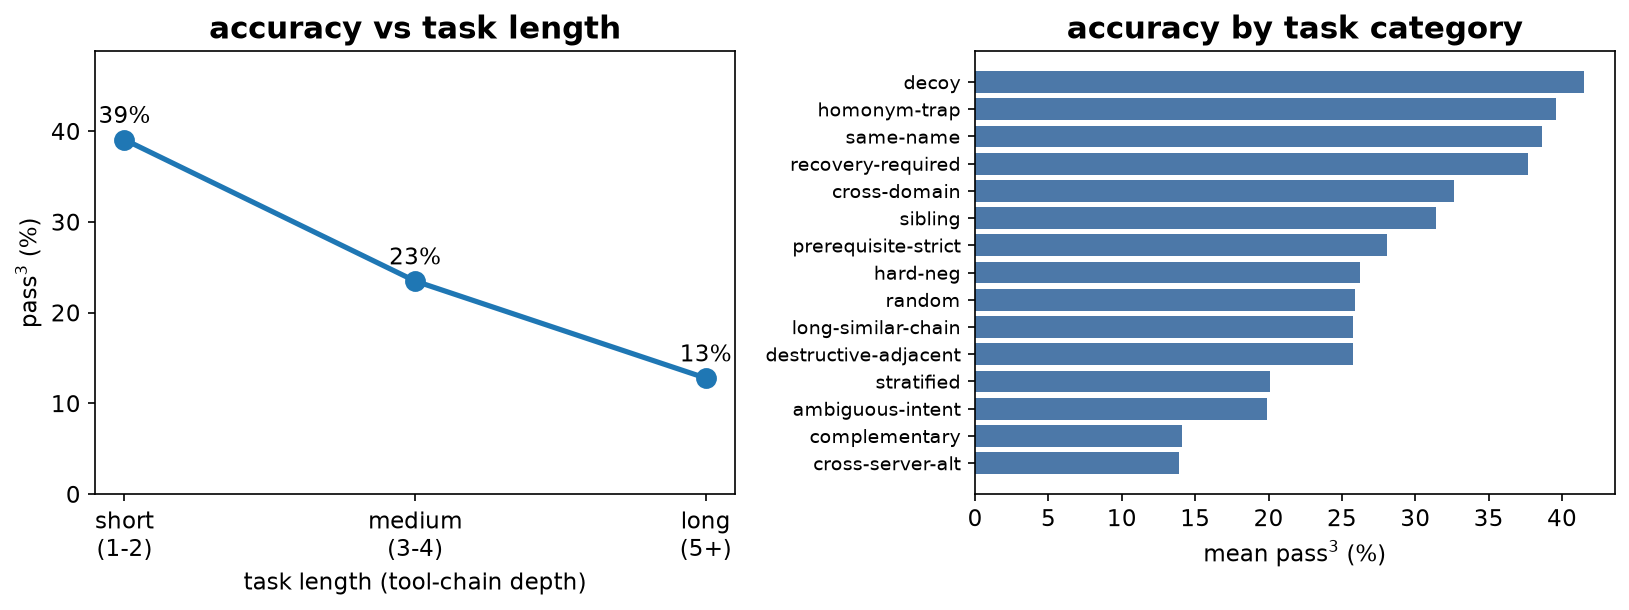
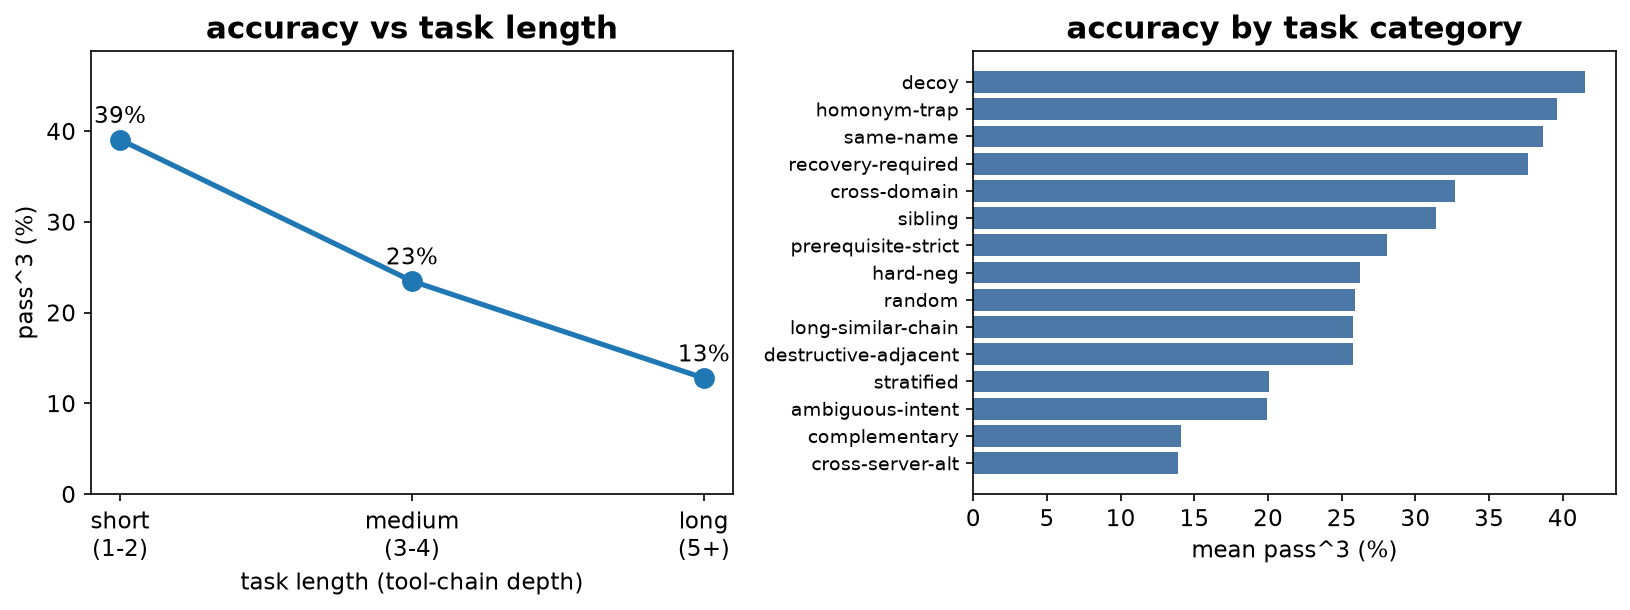
paper(figures): per-cell % on heatmap, drop separator line, literal pass^3
Heatmap now annotates every cell with its pass^3 percent and removes the
black API/local rule (was unclear). All figure labels use literal 'pass^3'
(caret visible) rather than a typeset superscript.

diff --git a/paper/figures/make_figures.py b/paper/figures/make_figures.py
@@ -107,18 +107,20 @@ length_pct = [100 * a / n for a, n in binagg]
 
 # ============================ FIG: heatmap ============================
 M = [[cells[f"{m}|{s}"] for s in cats] for m in models]
-fig, ax = plt.subplots(figsize=(11, 9))
+fig, ax = plt.subplots(figsize=(12, 9))
 im = ax.imshow(M, aspect="auto", cmap="RdYlGn", vmin=0, vmax=max(max(r) for r in M))
 ax.set_xticks(range(len(cats)))
 ax.set_xticklabels([catlabel[s] for s in cats], rotation=45, ha="right", fontsize=9)
 ax.set_yticks(range(len(models)))
 ax.set_yticklabels(models, fontsize=9)
-ax.axhline(len(api) - 0.5, color="black", lw=2)  # API | local separator
+for i in range(len(models)):
+    for j in range(len(cats)):
+        ax.text(j, i, f"{round(100 * M[i][j])}", ha="center", va="center", fontsize=6)
 ax.set_xlabel("task category")
 ax.set_ylabel("model")
-ax.set_title(r"pass$^3$ accuracy by model and task category")
+ax.set_title("pass^3 accuracy by model and task category (%)")
 cb = fig.colorbar(im, ax=ax, fraction=0.046, pad=0.02)
-cb.set_label(r"pass$^3$")
+cb.set_label("pass^3")
 fig.tight_layout()
 fig.savefig(f"{OUT}/fig_heatmap.png", dpi=150, bbox_inches="tight")
 plt.close(fig)
@@ -128,14 +130,14 @@ fig, (axL, axR) = plt.subplots(1, 2, figsize=(11, 4.2))
 axL.plot(["short\n(1-2)", "medium\n(3-4)", "long\n(5+)"], length_pct, "o-", lw=2.5, ms=9, color="#1f77b4")
 axL.set_ylim(0, max(length_pct) * 1.25)
 axL.set_xlabel("task length (tool-chain depth)")
-axL.set_ylabel(r"pass$^3$ (%)")
+axL.set_ylabel("pass^3 (%)")
 axL.set_title("accuracy vs task length")
 for x, y in enumerate(length_pct):
     axL.annotate(f"{y:.0f}%", (x, y), textcoords="offset points", xytext=(0, 8), ha="center")
 order = sorted(cats, key=lambda s: cat_mean[s])
 vals = [100 * cat_mean[s] for s in order]
 axR.barh([catlabel[s] for s in order], vals, color="#4c78a8")
-axR.set_xlabel(r"mean pass$^3$ (%)")
+axR.set_xlabel("mean pass^3 (%)")
 axR.set_title("accuracy by task category")
 axR.tick_params(axis="y", labelsize=9)
 fig.tight_layout()
@@ -149,7 +151,7 @@ for tag, color in (("API", "#d62728"), ("local", "#1f77b4")):
     ys = [100 * overall[m] for m in models if group[m] == tag and m in ptok]
     ax.scatter(xs, ys, s=60, color=color, label=tag, alpha=0.85, edgecolor="white")
 ax.set_xlabel("prompt tokens per task (thousands)")
-ax.set_ylabel(r"pass$^3$ (%)")
+ax.set_ylabel("pass^3 (%)")
 ax.set_title("accuracy vs compute per task")
 ax.legend(frameon=False)
 fig.tight_layout()
@@ -166,7 +168,7 @@ for m in loc:
         sy.append(100 * overall[m])
 ax.scatter(sx, sy, s=60, color="#1f77b4", alpha=0.85, edgecolor="white")
 ax.set_xlabel("model size (billion parameters)")
-ax.set_ylabel(r"pass$^3$ (%)")
+ax.set_ylabel("pass^3 (%)")
 ax.set_title("accuracy vs model size")
 fig.tight_layout()
 fig.savefig(f"{OUT}/fig_size.png", dpi=150, bbox_inches="tight")
